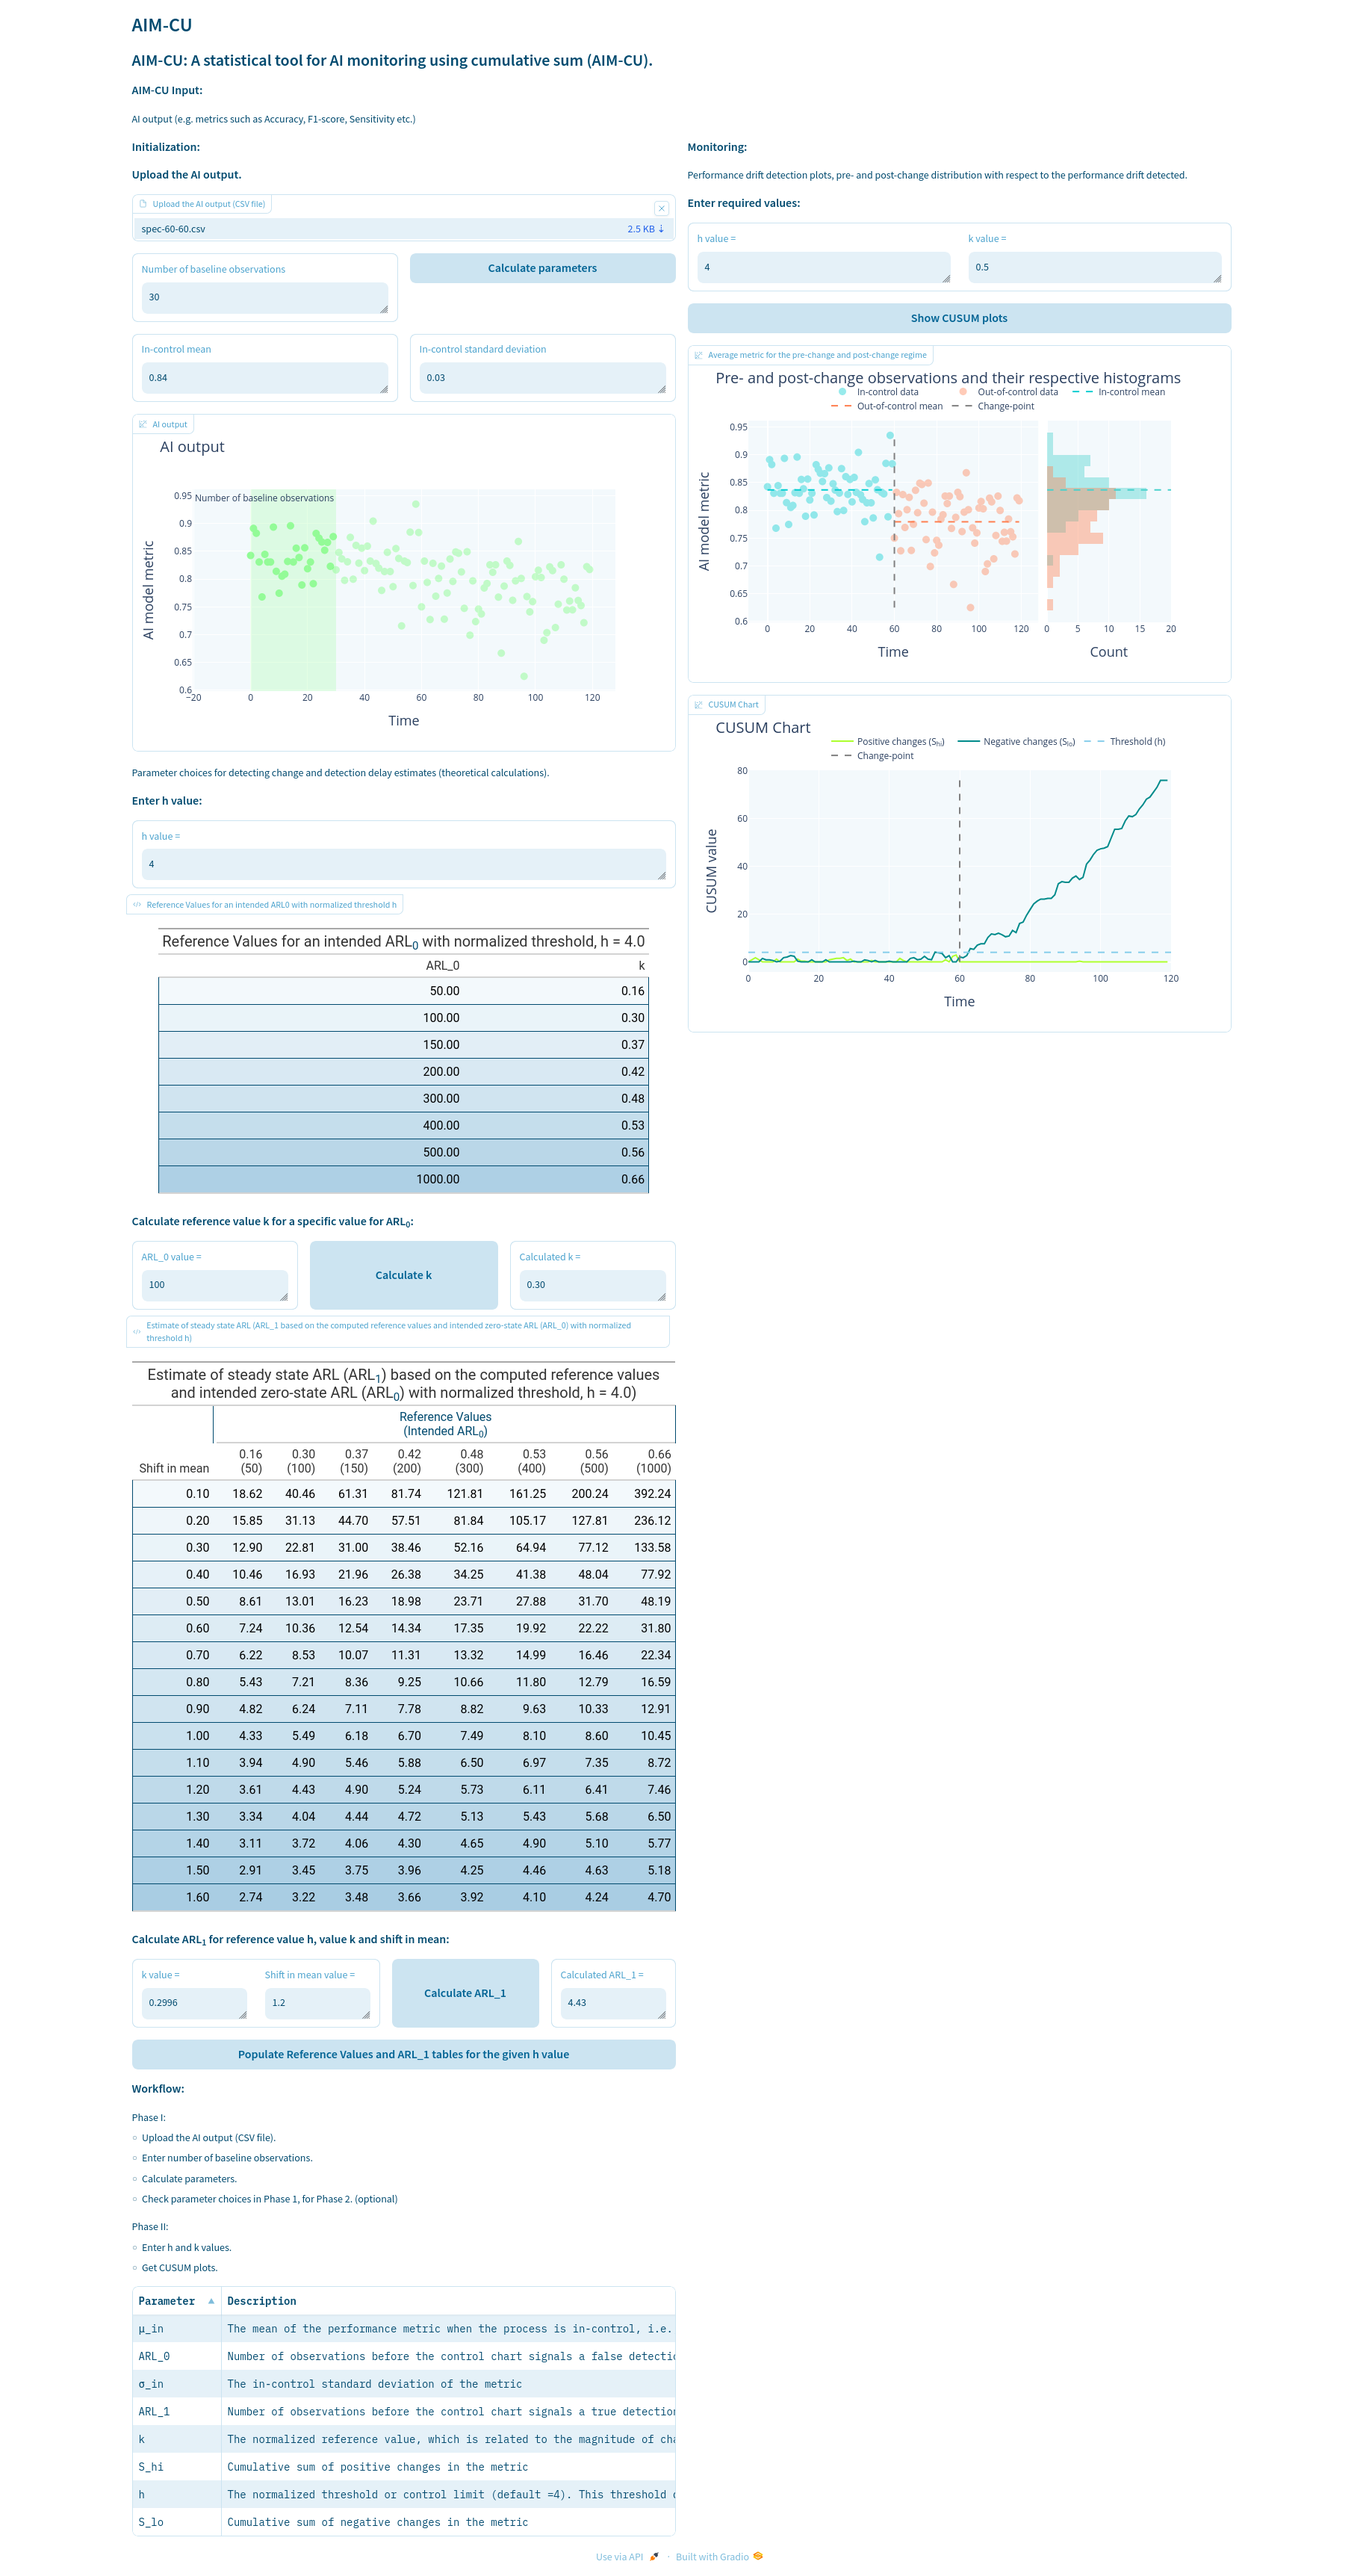
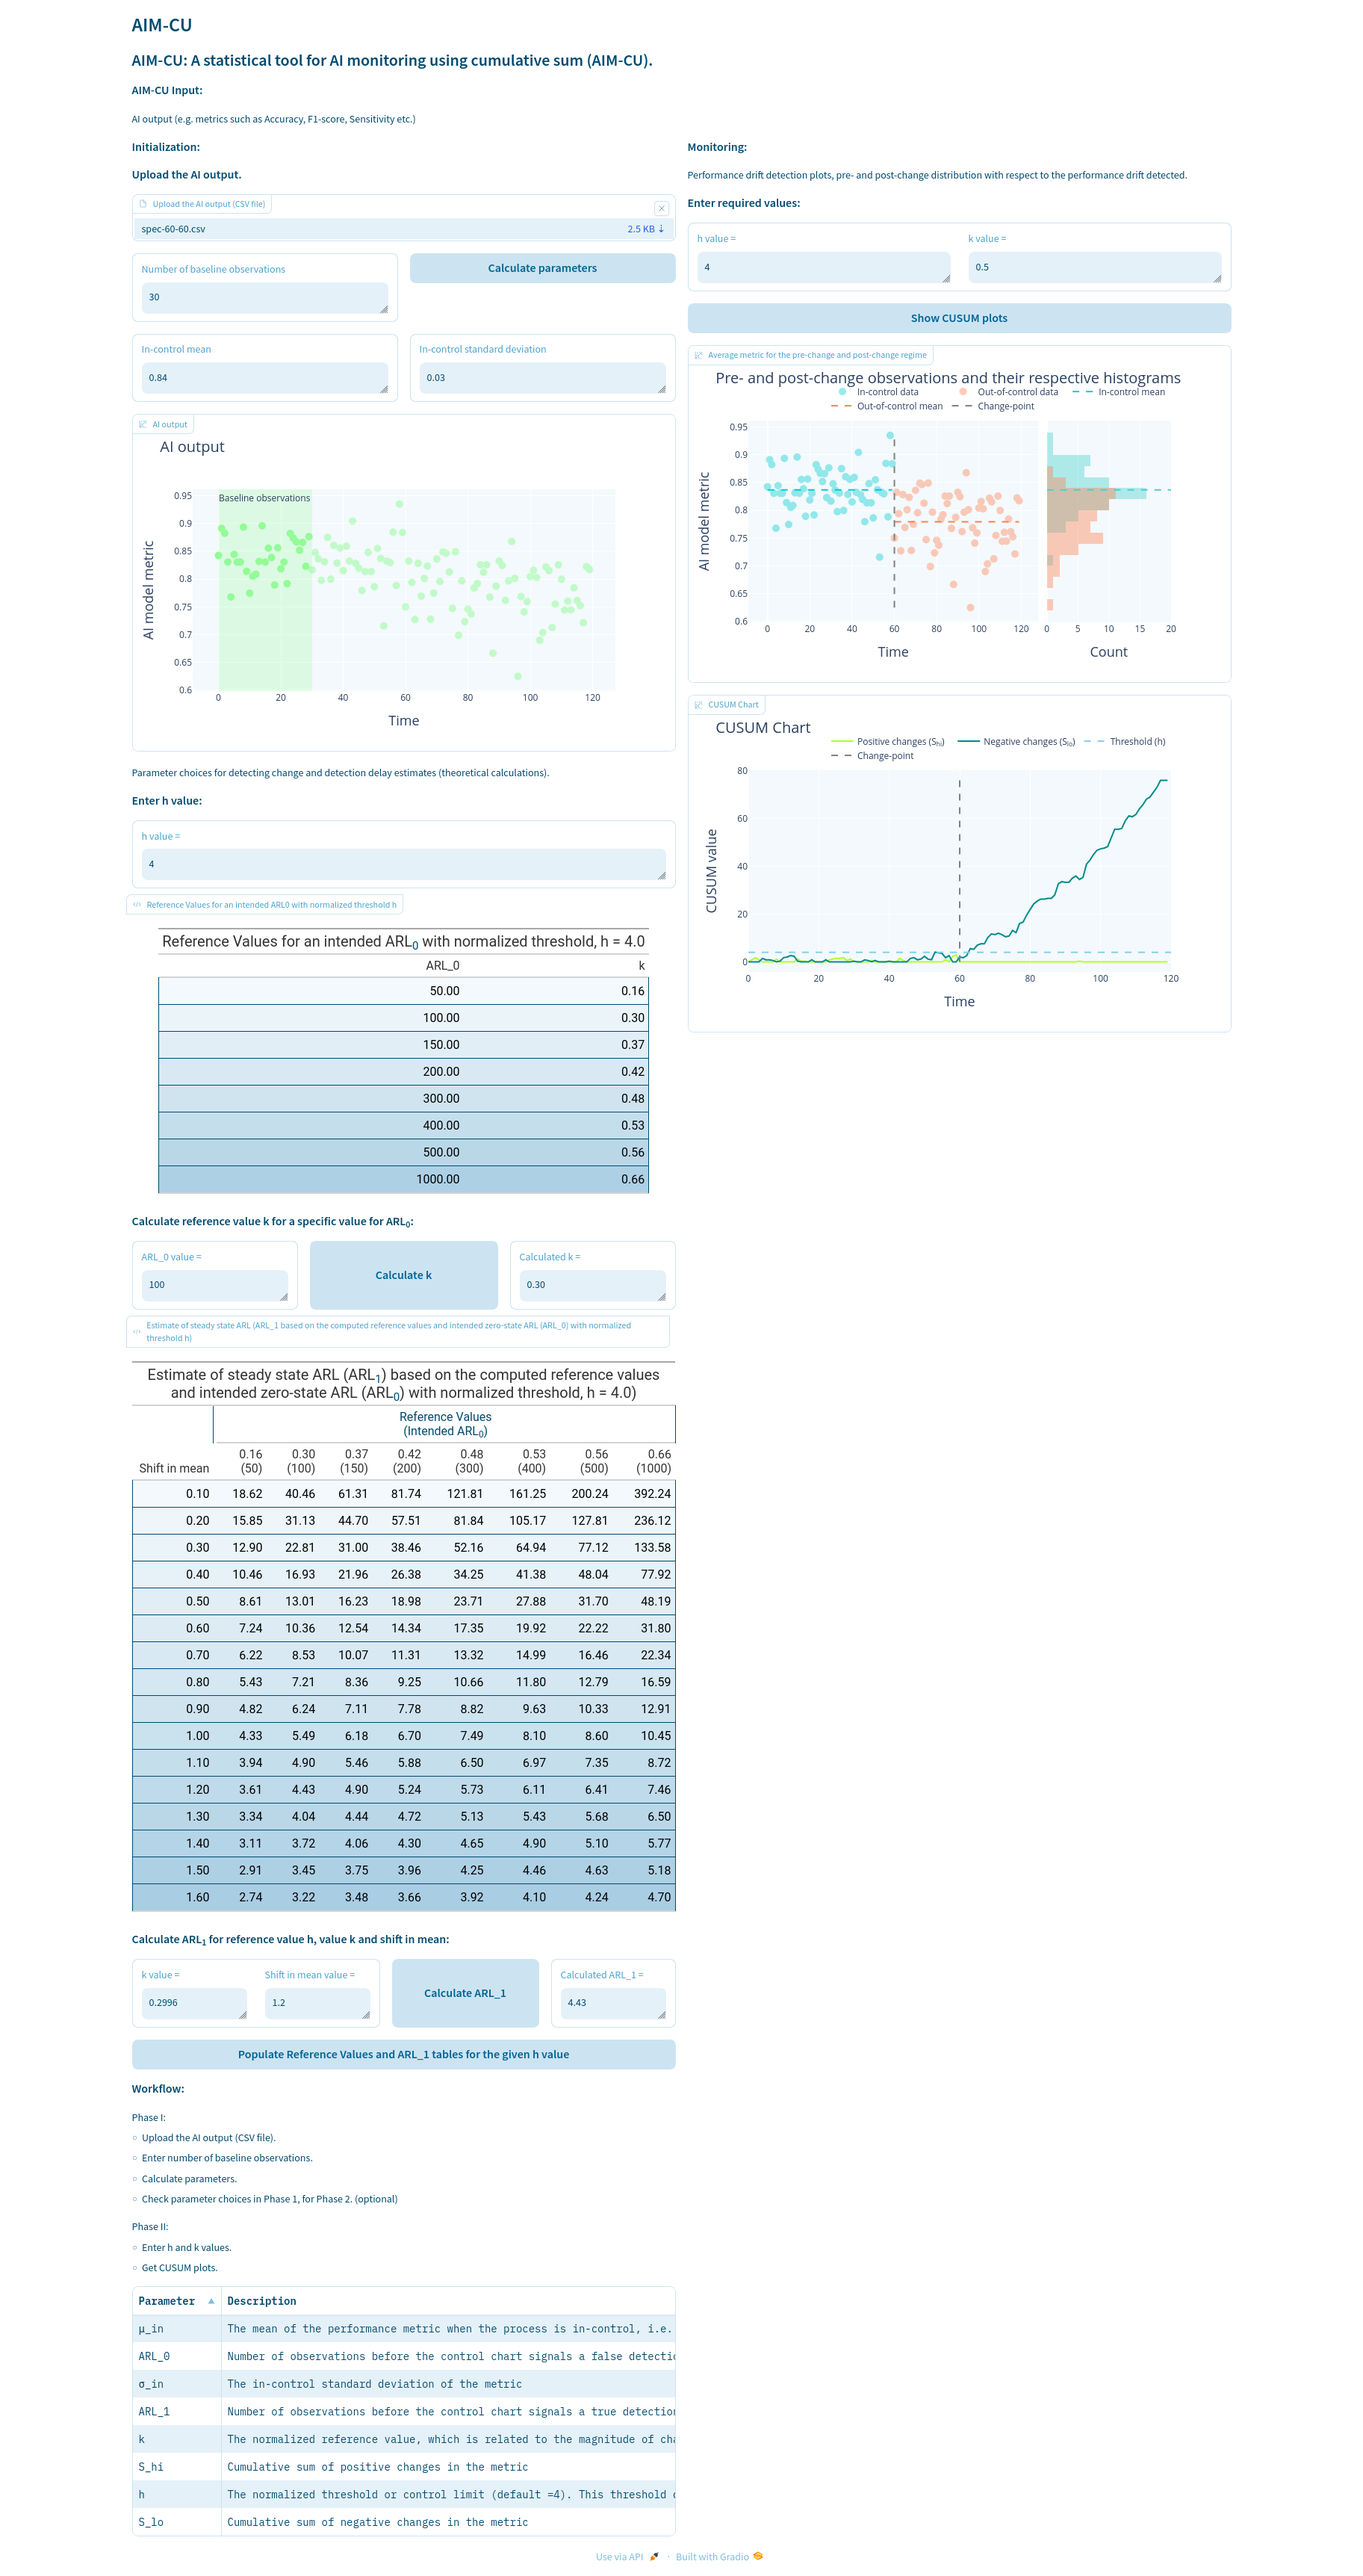
minor changes

Changed region(s): [[0.1562, 0.1862, 0.406, 0.2793]]

diff --git a/src/package/cusum.py b/src/package/cusum.py
@@ -313,7 +313,7 @@ class CUSUM:
         fig.add_vrect(
             x0=0,
             x1=self.init_days,
-            annotation_text="Number of baseline observations",
+            annotation_text="Baseline observations",
             annotation_position="top right",
             fillcolor="palegreen",
             opacity=0.25,
